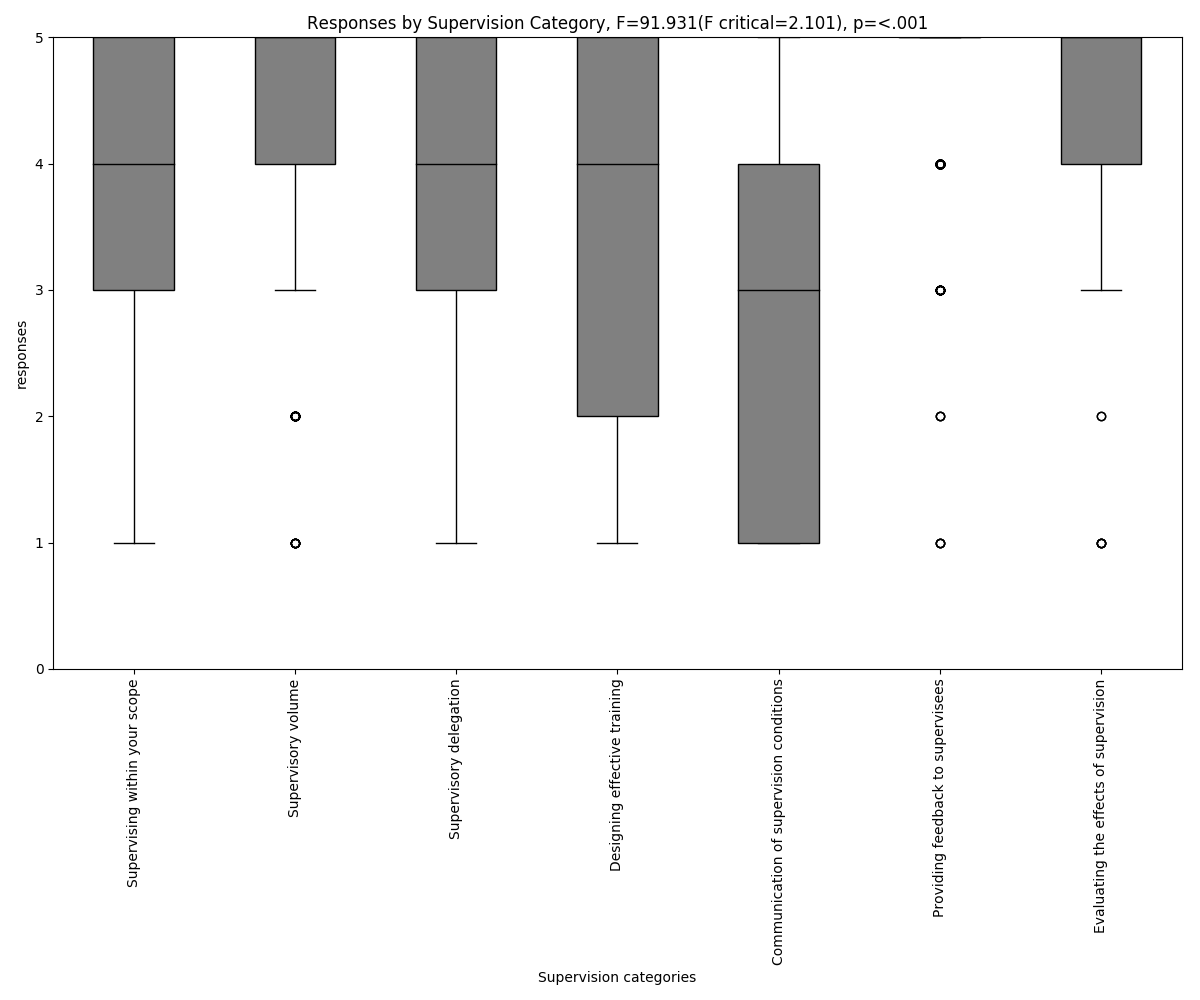
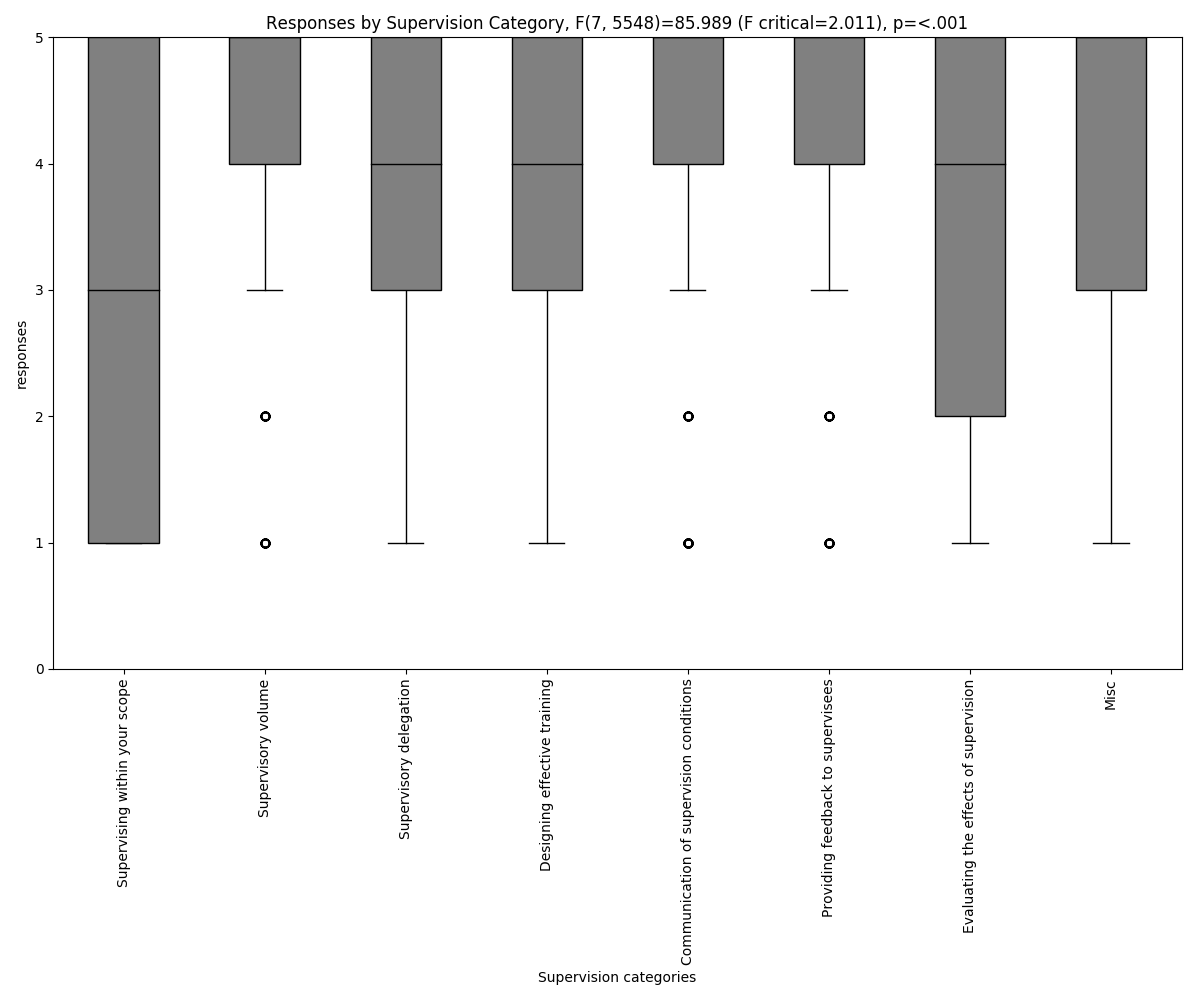
updated Q2_addendum supervision categories

diff --git a/question_2_addendum.py b/question_2_addendum.py
@@ -37,10 +37,10 @@ def q2_add_prep():
 	supervision_list = clean_data.make_supervision_behaviors_list()
 
 	# RESEARCH QUESTION 2 ADDENUM
-	question2add(integers, supervision_list)
+	question2add(integers)
 	
 
-def question2add(df, sup_list):
+def question2add(df):
 	''' Changes column labels from supervision behavior to the category it falls in'''
  
 	os.chdir('./Q2_addendum_graphs')
@@ -48,10 +48,9 @@ def question2add(df, sup_list):
 	# SUPERVISING WITHIN YOUR SCOPE
 	group1 = pd.concat([df['Literature for new competency area'], \
                         df['Supervisory study groups'], \
-                        df['Review literature'], \
-                        df['Attend conferences'], \
-                        df['Participate in peer review'], \
-                        df['Seek mentorship'], \
+                        df['Professional groups'], \
+                        df['Outside training area - credentialing requirements'], \
+                        df['Outside training area - training and supervision'], \
                         df['Supervisory study groups']], ignore_index=True)
 
 	group1.dropna(inplace=True)
@@ -59,6 +58,7 @@ def question2add(df, sup_list):
 	# SUPERVISORY VOLUME
 	group2 = pd.concat([df['Arrive on time'], \
                         df['60% fieldwork hours'], \
+                        df['Supervision schedule'], \
                         df['Schedule contacts']], ignore_index=True)
 
 	group2.dropna(inplace=True)
@@ -73,31 +73,73 @@ def question2add(df, sup_list):
 	group4 = pd.concat([df['Group supervision'], \
                         df['Create group activities'], \
                         df['Include ethics'], \
+                        df['Behavior skills training'], \
                         df['Discuss how to give feedback']], ignore_index=True)
 
 	group4.dropna(inplace=True)
  
 	# COMMUNICATION OF SUPERVISION CONDITIONS
-	group5 = pd.concat([df['Send agenda']], ignore_index=True)
+	group5 = pd.concat([df['Send agenda'], \
+                        df['Performance expectations'], \
+                        df['Written supervision contract'], \
+                        df['Review supervision contract'], \
+                        df['Supervision termination clause']], ignore_index=True)
 
 	group5.dropna(inplace=True)
 
 	# PROVIDING FEEDBACK TO SUPERVISEES
 	group6 = pd.concat([df['Observe body language'], \
-                        df['Maintain positive rapport']], ignore_index=True)
+                        df['Written evaluation system'], \
+                        df['Positive and corrective feedback'], \
+                        df['Document feedback'], \
+                        df['Immediate feedback'], \
+                        df['Instructions and demonstration']], ignore_index=True)
 	
 	group6.dropna(inplace=True) 
 
 	# EVALUATING THE EFFECTS OF SUPERVISION
-	group7 = pd.concat([df['Self-assess interpersonal skills']], ignore_index=True)
+	group7 = pd.concat([df['Self-assess interpersonal skills'], \
+                        df['Supervision fidelity'], \
+                        df['Evaluate client performance'], \
+                        df['Evaluate supervisee performance']], ignore_index=True)
 
 	group7.dropna(inplace=True)
 
+	# MISC
+	group8 = pd.concat([df['Peer evaluate'], \
+                        df['Return communications within 48 hours'], \
+                        df['Take baseline'], \
+                        df['Detect barriers to supervision'], \
+                        df['BST case presentation'], \
+                        df['Send agenda'], \
+                        df['Continue professional relationship'], \
+                        df['Observe body language'], \
+                        df['Maintain positive rapport'], \
+                        df['Self-assess interpersonal skills'], \
+                        df['Group supervision'], \
+                        df['Create group activities'], \
+                        df['Supervisory study groups'], \
+                        df['Include ethics'], \
+                        df['Arrive on time'], \
+                        df['Discuss how to give feedback'], \
+                        df['Schedule direct observations'], \
+                        df['Schedule standing supervision appointments'], \
+                        df['Review literature'], \
+                        df['Meeting notes'], \
+                        df['Attend conferences'], \
+                        df['Participate in peer review'], \
+                        df['Seek mentorship'], \
+                        df['Discourage distractions']], ignore_index=True)
+	
+	group8.dropna(inplace=True)
+
+
 	columns = ['Supervising within your scope', 'Supervisory volume', 'Supervisory delegation', \
                'Designing effective training', 'Communication of supervision conditions', \
-               'Providing feedback to supervisees', 'Evaluating the effects of supervision']
+               'Providing feedback to supervisees', 'Evaluating the effects of supervision', 'Misc']
 
-	df = pd.concat([group1, group2, group3, group4, group5, group6, group7], axis=1, ignore_index=True)
+	
+	df = pd.concat([group1, group2, group3, group4, group5, group6, group7, group8], axis=1, ignore_index=True)
 	df.columns = columns
 
 	# Run ANOVA
@@ -121,18 +163,9 @@ def question2add(df, sup_list):
 	# Calculate the critical F value
 	Fcrit = stats.f.ppf(q=1-0.05, dfn=dfn, dfd=dfd)
 	
-	# Assign labels for the boxplot
-	supervision_categories = ['Supervising within your scope', \
-                              'Supervisory volume', \
-                              'Supervisory delegation', \
-                              'Designing effective training', \
-                              'Communication of supervision conditions', \
-                              'Providing feedback to supervisees', \
-                              'Evaluating the effects of supervision']
-
 	# Make the boxplot
-	bp = plt.boxplot([group1, group2, group3, group4, group5, group6, group7], \
-                      labels=supervision_categories, \
+	bp = plt.boxplot([group1, group2, group3, group4, group5, group6, group7, group8], \
+                      labels=columns, \
                       patch_artist=True)
 
 	# Chance color of boxes
@@ -143,17 +176,17 @@ def question2add(df, sup_list):
 	for median in bp['medians']:
 		median.set(color = 'black')
 
-	_ = plt.title('Responses by Supervision Category, F='+str(round(f, 3))+'(F critical='+str(round(Fcrit, 3))+'), p='+p)
+	_ = plt.title('Responses by Supervision Category, F('+str(dfn)+', '+str(dfd)+ \
+                  ')='+str(round(f, 3))+' (F critical='+str(round(Fcrit, 3))+'), p='+p)
+
 	_ = plt.ylim(0,5)
 	_ = plt.xlabel('Supervision categories')
 	_ = plt.ylabel('responses')
 	_ = plt.xticks(rotation=90)
 
-	# Resize to larger window for bigger graph
-	#manager = plt.get_current_fig_manager()
-	#manager.resize(*manager.window.maxsize())
 	fig = plt.gcf()
 	fig.set_size_inches(12, 10)
+
 	_ = plt.tight_layout()
 	_ = plt.savefig('supervision_categories.png')
 	_ = plt.show()

diff --git a/question_2.py b/question_2.py
@@ -77,7 +77,9 @@ def question2(df):
 	_ = plt.xticks(rotation=90)
 	_ = plt.xlabel('Individual behaviors')
 	_ = plt.ylabel('Survey response')
-	_ = plt.title('Supervisory Behaviors, F='+str(round(f, 3))+'(F critical='+str(round(Fcrit, 3))+'), p'+p)
+	_ = plt.title('Supervisory Behaviors, F('+str(dfn)+', '+str(dfd)+')=' \
+                  +str(round(f, 3))+'(F critical='+str(round(Fcrit, 3))+'), p'+p)
+
 	#_ = plt.annotate('p='+str(p), xy=(30,1))
 	#_ = plt.grid(b=None)
 
